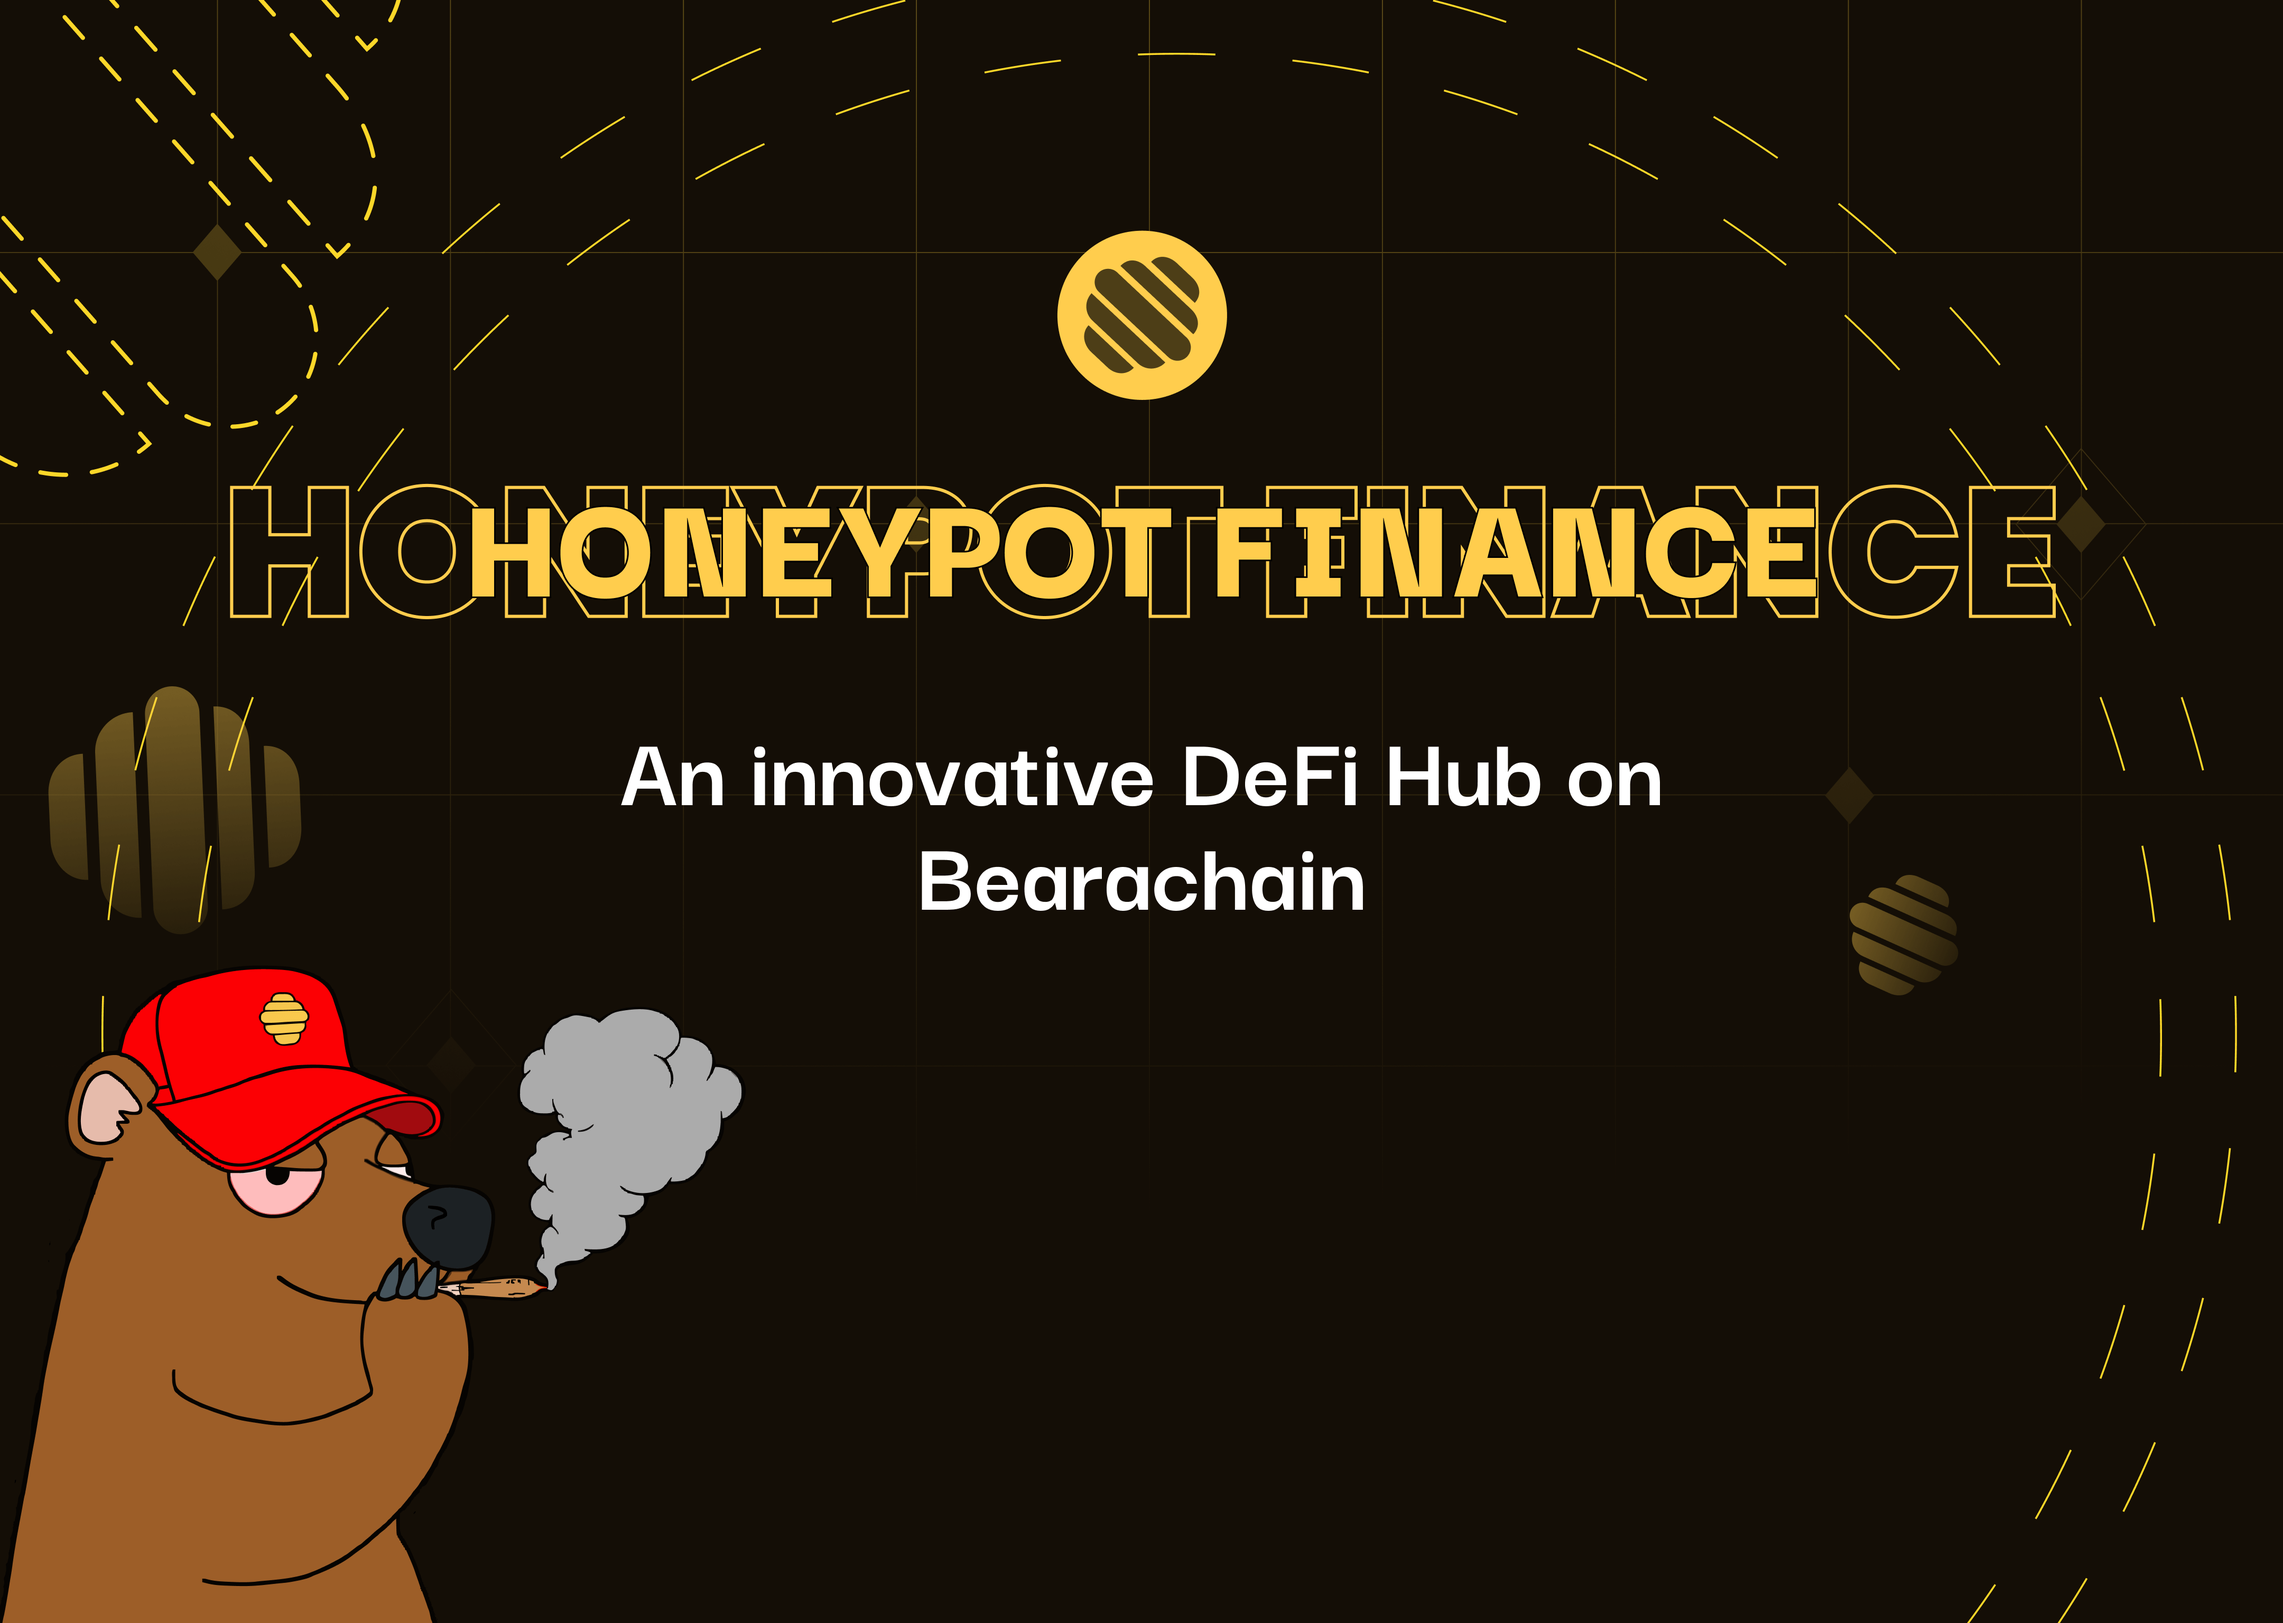
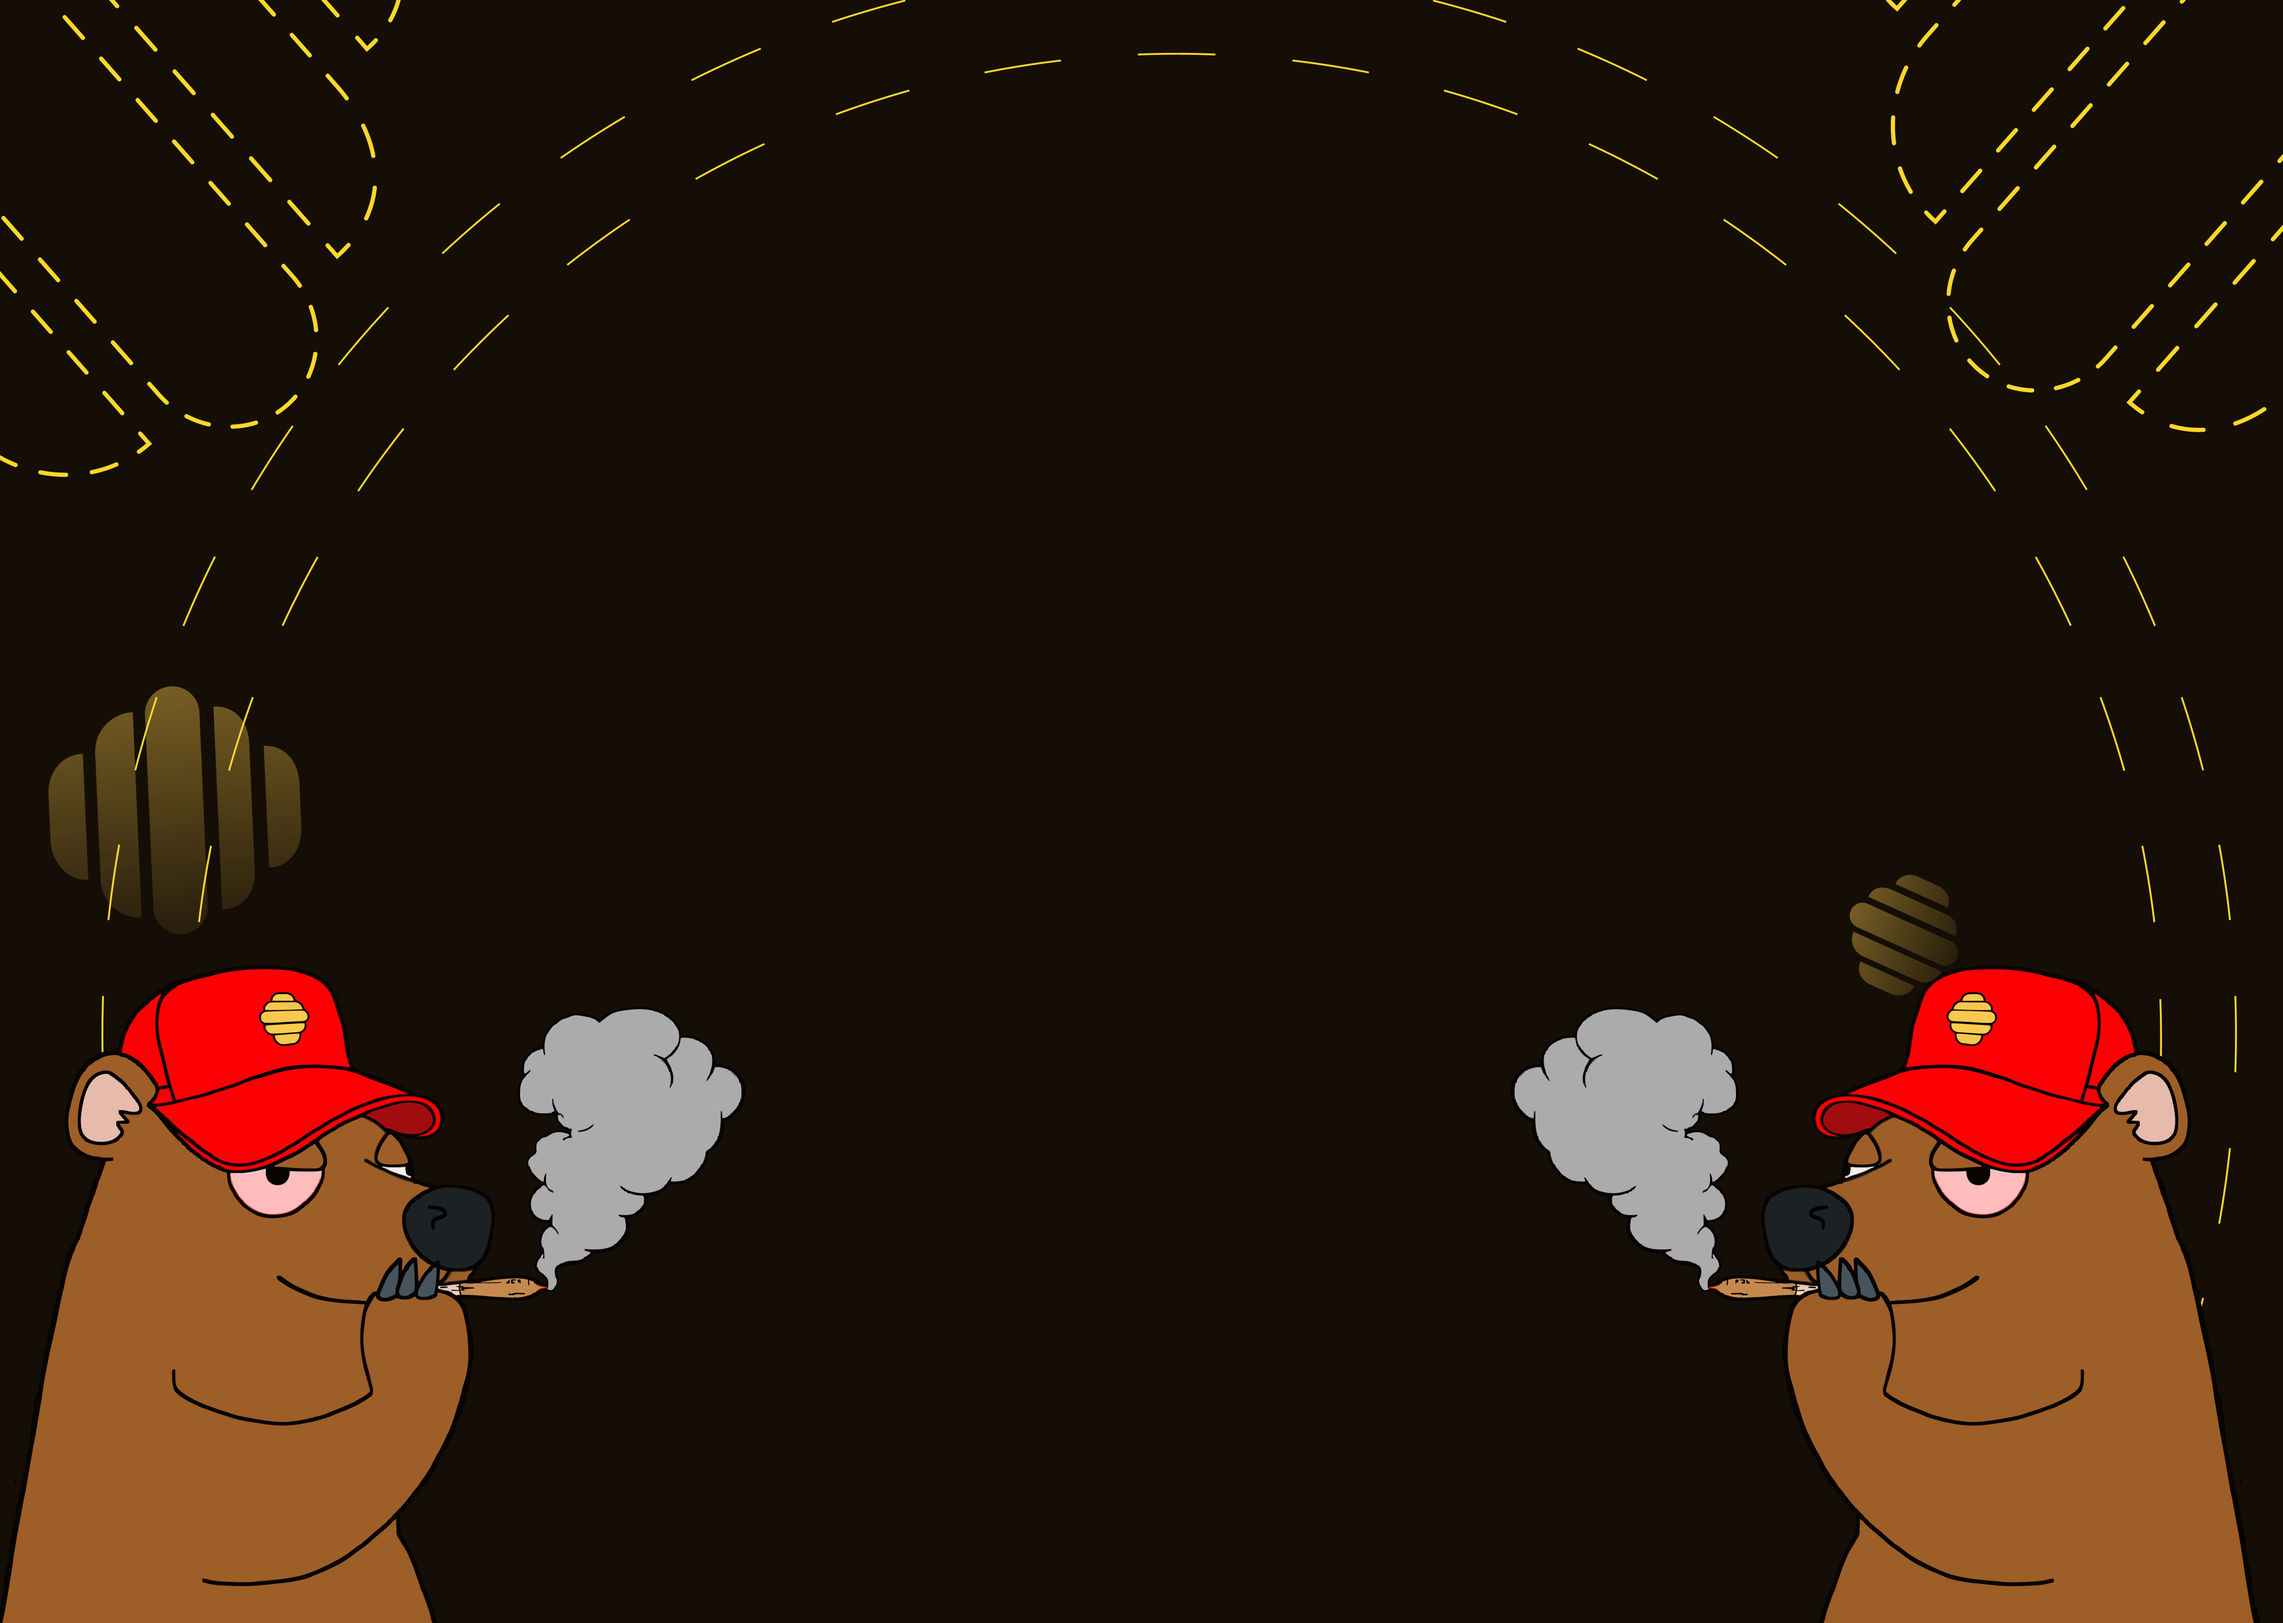
add homepage

diff --git a/pages/index.tsx b/pages/index.tsx
@@ -1,12 +1,117 @@
+import { NextLayoutPage } from "@/types/nextjs";
 import Image from "next/image";
+import { Darker_Grotesque, Poppins } from "next/font/google";
+import { cn } from "@/lib/tailwindcss";
+import Link from "next/link";
 
-export default function Home() {
+// If loading a variable font, you don't need to specify the font weight
+const darkGroteque = Darker_Grotesque({ subsets: ["latin"] });
+const poppins = Poppins({ subsets: ["latin"], weight: ["400"] });
+
+const Home: NextLayoutPage = () => {
+  const links: {
+    text: string;
+    href: string;
+    icon?: React.ReactNode;
+    target?: string;
+  }[] = [
+    {
+      text: "Twitter",
+      href: "https://twitter.com/honeypotfinance",
+      target: "_blank",
+      icon: (
+        <Image
+          width={16}
+          height={16}
+          src="/images/twitter.png"
+          alt="twitter"
+        ></Image>
+      ),
+    },
+    {
+      text: "HenloDex",
+      href: "/swap",
+    },
+    {
+      text: "HoneyGenesis",
+      href: "https://mint.honeypotfinance.xyz",
+      target: "_blank",
+    },
+    {
+      text: "Discord",
+      href: "https://discord.com/invite/pkh7shAPWB",
+      target: "_blank",
+      icon: (
+        <Image
+          width={16}
+          height={16}
+          src="/images/discord.png"
+          alt="discord"
+        ></Image>
+      ),
+    },
+    {
+      text: "Prototype",
+      href: "https://yexlabs.xyz",
+      target: "_blank",
+    },
+  ];
   return (
-    <div className=" relative">
-      <Image src="/images/homepage.png" alt="homepage" fill />
-      <div className=" relative z-10">
-        <></>
+    <div className=" relative  min-h-full">
+      <Image
+        className=" absolute left-0 top-0"
+        src="/images/homepage.png"
+        fill
+        alt=""
+      ></Image>
+      <div className="relative  z-1 w-full h-full flex flex-col justify-center items-center ">
+        <Image
+          className="mt-[80px] sm:mt-[150px]"
+          width={85}
+          height={85}
+          src="/images/honey.png"
+          alt=""
+        ></Image>
+        <div className="w-full px-[24px] sm:px-[160px]">
+          <div className="relative sm:h-[277px] h-[100px] w-full">
+            <Image
+              objectFit="contain"
+              className="absolute"
+              src="/images/banner.png"
+              fill
+              alt=""
+            ></Image>
+          </div>
+        </div>
+        <div
+          className={cn(
+            "max-w-full flex w-[676px] flex-col justify-center shrink-0 text-white text-center text-[36px] sm:text-[65.509px] font-bold leading-[100%]",
+            darkGroteque.className
+          )}
+        >
+          An innovative DeFi Hub on Bearachain
+        </div>
+        <div className="sm:flex max-w-full mt-[41px] gap-[16px] grid grid-cols-2">
+          {links.map((link) => (
+            <Link
+              className={cn(
+                "text-[#FFCD4D] text-[14.705px] font-bold leading-[119%] capitalize flex w-[135px] h-[51px] justify-center items-center gap-[6.127px] [background:rgba(255,205,77,0.10)] backdrop-blur-[122.54356384277344px] rounded-[122.544px] border-[1.225px] border-solid border-[rgba(255,205,77,0.50)]",
+                poppins.className
+              )}
+              target={link.target || '_self'}
+              key={link.text}
+              href={link.href}
+            >
+              {link.text}
+            </Link>
+          ))}
+        </div>
       </div>
     </div>
   );
-}
+};
+const Layout = ({ children }: { children: any }) => children;
+Layout.displayName = "Layout";
+
+Home.Layout = Layout;
+export default Home;

diff --git a/tailwind.config.ts b/tailwind.config.ts
@@ -22,7 +22,7 @@ const config: Config = {
         display: "Oswald, ui-serif", // Adds a new `font-display` class
       },
       backgroundColor: {
-        default: "var(--bg,#1F1609)",
+        default: "var(--bg,#140E06)",
       },
       textColor: {
         default: "white",

diff --git a/styles/globals.css b/styles/globals.css
@@ -21,6 +21,11 @@ html,body{
   overflow: auto;
 }
 
+body>div, body>div>div, body>div>div>div{
+  width: 100%;
+  height: 100%;
+}
+
 body {
   color: rgb(var(--foreground-rgb));
   font-family:"DM_Sans";
